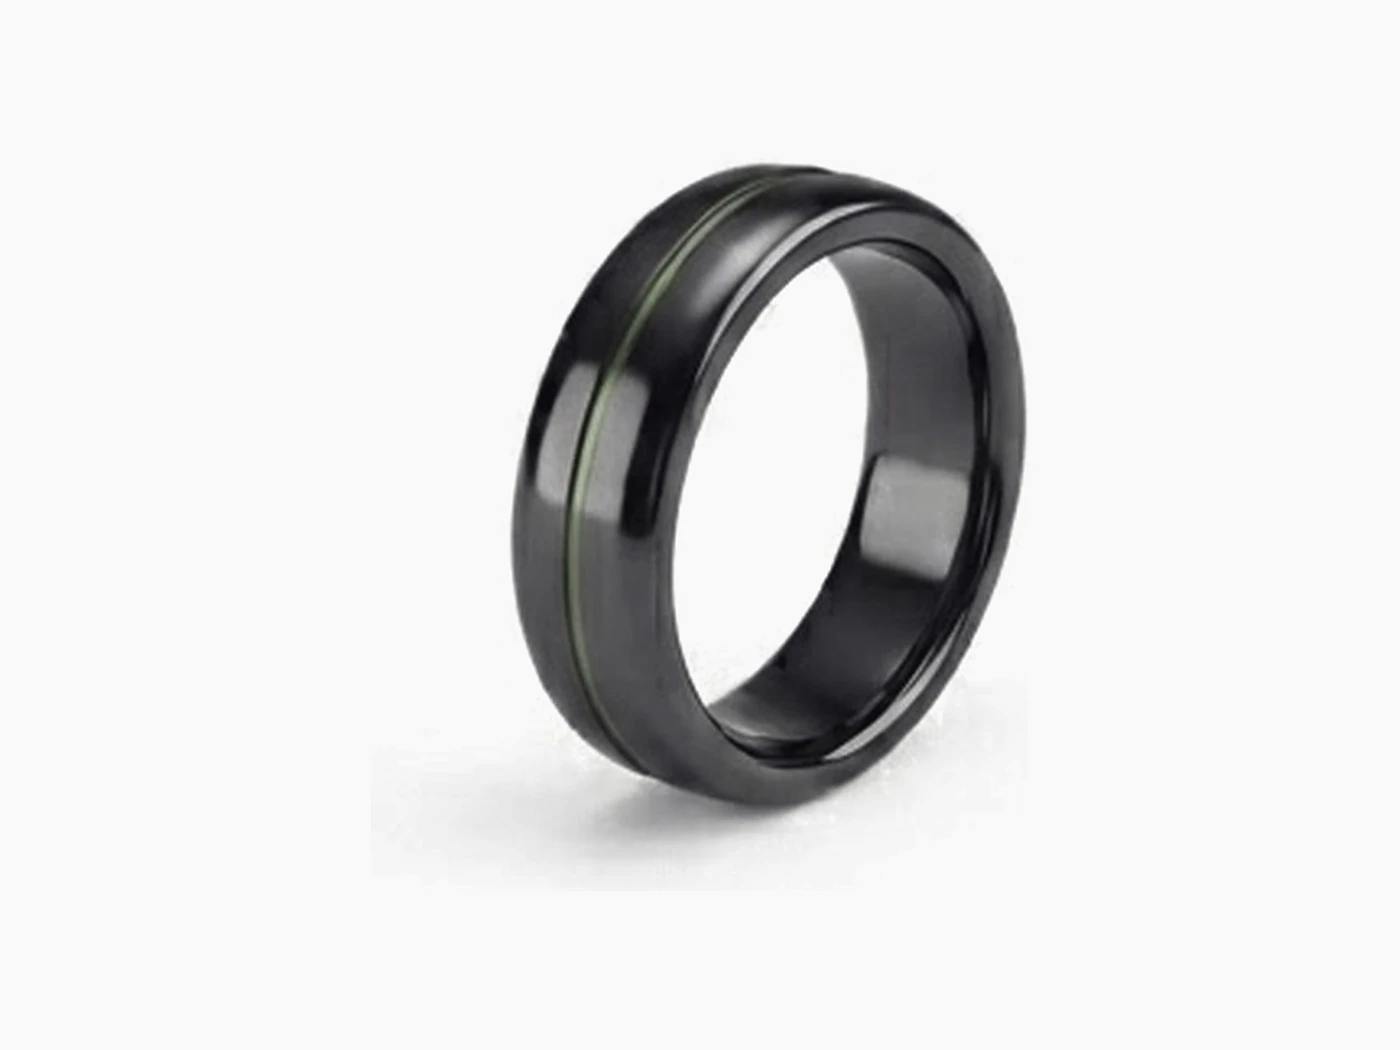
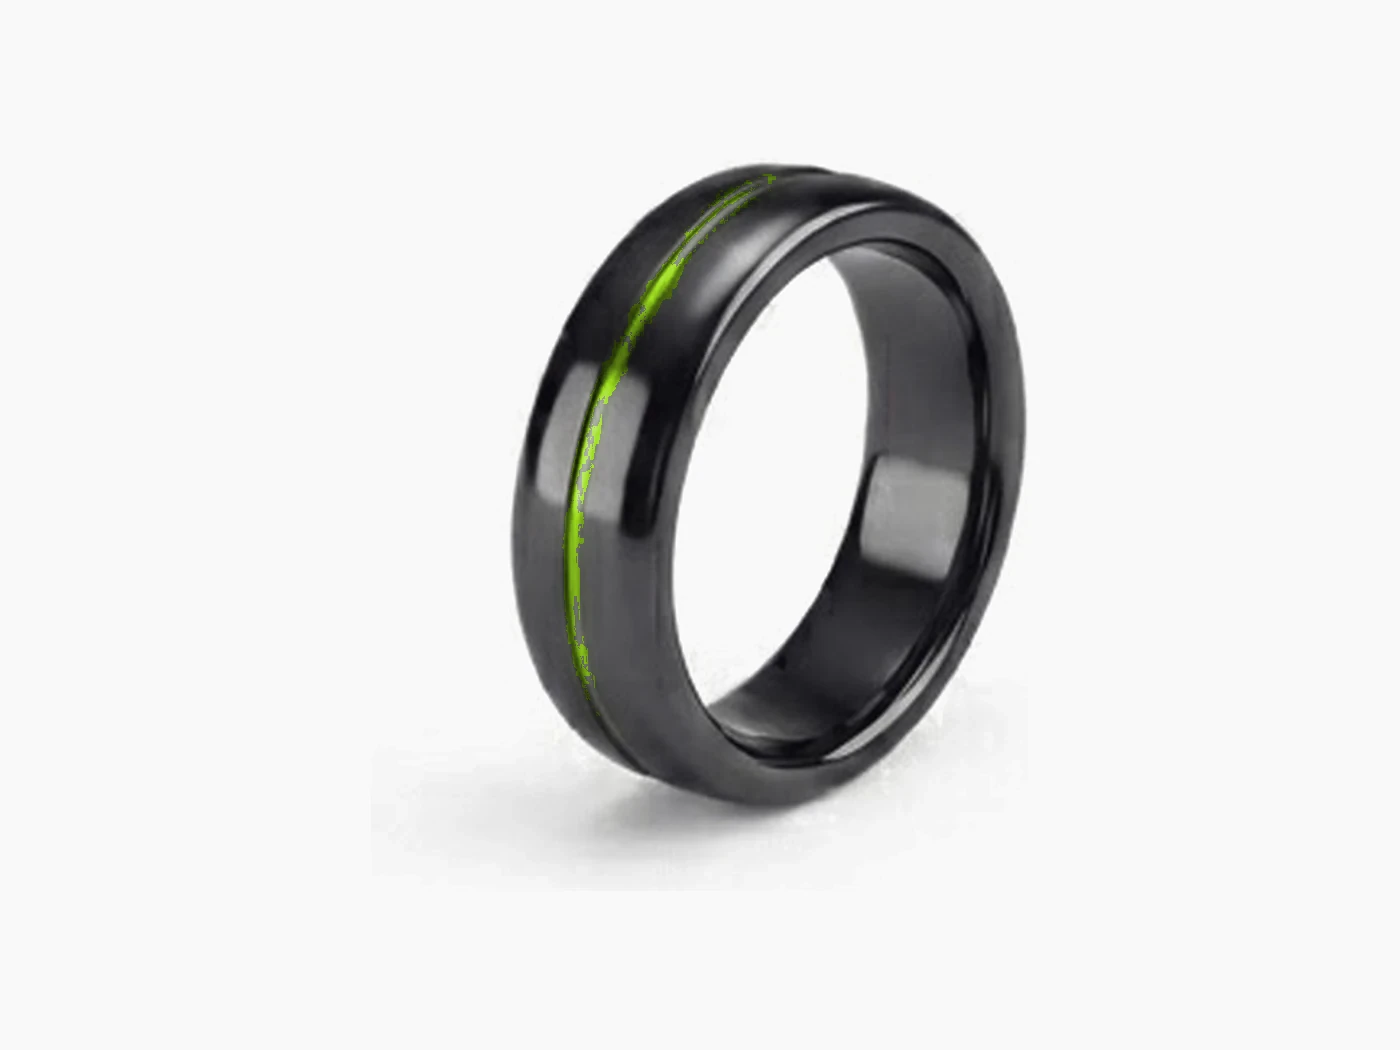
Stop sending people to a page to see what is already on screen
"Narxlar" in the header went to /pricing from everywhere, including from
the entry page, whose price block is the thing that page opens with. That
is a navigation that undoes itself: the reader presses a word, loses the
page they were reading, and arrives at the block they were three
centimetres away from.

The link now carries both an address and, where the entry page has a twin
of it, the id of that block — and picks by where the reader is standing.
Only the price has a twin; personal, business and residents are pages of
their own with nothing on the entry page to scroll to. The address is
still what goes into the HTML everywhere else, so a crawler and a
middle-click get a real URL and the scrolling is an enhancement rather
than a replacement.

An anchor now animates instead of cutting — off for anybody whose system
asks for less motion, since scrolling is the one animation that reliably
makes people ill — and every element with an id keeps 5rem clear of the
sticky header, in one rule rather than a `scroll-mt` to be remembered on
each new section.

The ring's inlay also gets its colour back. The render came back with the
line at about a third of the brand saturation and a few degrees toward
olive, so beside the card and the band — whose lines are lime — it read
as the odd product out. Only pixels the eye already sees as green are
touched, each keeping its own lightness so the groove keeps its shape; a
global lift would have tinted the whole ceramic band.
[…]

Changed region(s): [[0.3993, 0.2438, 0.4914, 0.6705], [0.4914, 0.1829, 0.5529, 0.2438]]

diff --git a/landing/src/app/globals.css b/landing/src/app/globals.css
@@ -114,8 +114,8 @@
   /* The faces come from `app/fonts.ts`. Left as shadcn wrote them, these
      pointed at variables nothing defined, so every page fell back to the
      browser's default serif. */
-  --font-sans: var(--font-inter), system-ui, -apple-system, "Segoe UI", Roboto,
-    sans-serif;
+  --font-sans:
+    var(--font-inter), system-ui, -apple-system, "Segoe UI", Roboto, sans-serif;
   /* Numbers, and only numbers: the plate, the engraving on the card, prices.
      Kept apart from the body face because 0/O and 1/I have to stay apart when
      somebody is typing a number back in off a card. */
@@ -286,6 +286,29 @@
   }
   html {
     @apply font-sans;
+
+    /* An in-page jump animates rather than teleports.
+       Landing on a block after a jump-cut, the reader has to work out what
+       moved and how far; watching it arrive answers that for free. Honoured
+       by the browser only for anchors, so a page load still starts at the top.
+       Turned off for anybody who has asked their system for less motion —
+       scrolling is the one animation that reliably makes people ill. */
+    scroll-behavior: smooth;
+  }
+
+  @media (prefers-reduced-motion: reduce) {
+    html {
+      scroll-behavior: auto;
+    }
+  }
+
+  /* The header is sticky, so a block scrolled to by anchor would otherwise
+     arrive with its heading underneath it. One rule here rather than a
+     `scroll-mt` remembered on each section, which is a rule that gets
+     forgotten on the next section somebody adds. */
+  :target,
+  [id] {
+    scroll-margin-top: 5rem;
   }
 }
 @layer components {
@@ -352,8 +375,12 @@
  * would be missing from the loop and the seam would jump by six pixels.
  */
 @keyframes drift {
-  from { transform: translateX(0); }
-  to   { transform: translateX(-50%); }
+  from {
+    transform: translateX(0);
+  }
+  to {
+    transform: translateX(-50%);
+  }
 }
 
 .drift {
@@ -369,5 +396,7 @@
 }
 
 @media (prefers-reduced-motion: reduce) {
-  .drift { animation: none; }
+  .drift {
+    animation: none;
+  }
 }

diff --git a/landing/src/components/NavLink.tsx b/landing/src/components/NavLink.tsx
@@ -1,0 +1,50 @@
+"use client";
+
+import { usePathname } from "@/i18n/navigation";
+import { Link } from "@/i18n/navigation";
+
+/**
+ * A header link that knows whether the thing it names is already on screen.
+ *
+ * Some of these name a page and some name a section of the entry page, and
+ * which one is true depends on where the reader is standing. Pressing "Narxlar"
+ * on the entry page and being sent to a page whose first screen is the block
+ * you were already looking at is a navigation that undoes itself; pressing it
+ * from a device page has to go somewhere, because there is no price block there
+ * to scroll to.
+ *
+ * So the link carries both, and picks. `anchor` is used only when the reader is
+ * on the page that has it. The `href` is what is rendered into the HTML for
+ * every other case, which is also what a crawler and a middle-click get — the
+ * scrolling is an enhancement on top of a real address, never a replacement
+ * for one.
+ */
+export default function NavLink({
+  href,
+  anchor,
+  className,
+  onNavigate,
+  children,
+}: {
+  href: string;
+  /** The id of the block on the entry page, when the link has a twin there. */
+  anchor?: string;
+  className?: string;
+  /** Lets the mobile sheet close itself when a link inside it is used. */
+  onNavigate?: () => void;
+  children: React.ReactNode;
+}) {
+  const pathname = usePathname();
+  const onEntryPage = pathname === "/";
+  const scrolls = Boolean(anchor) && onEntryPage;
+
+  return (
+    <Link
+      href={scrolls ? { pathname: "/", hash: anchor } : href}
+      className={className}
+      onClick={() => onNavigate?.()}
+    >
+      {children}
+    </Link>
+  );
+}

diff --git a/landing/src/components/SiteHeader.tsx b/landing/src/components/SiteHeader.tsx
@@ -3,6 +3,7 @@ import { getTranslations } from "next-intl/server";
 import LangSwitch from "@/components/LangSwitch";
 import Mark from "@/components/Mark";
 import MobileMenu from "@/components/MobileMenu";
+import NavLink from "@/components/NavLink";
 import { Link } from "@/i18n/navigation";
 
 // The one header, on every page.
@@ -26,8 +27,11 @@ export type Session = {
 export default async function SiteHeader({ session }: { session?: Session }) {
   const t = await getTranslations("nav");
 
+  // `anchor` names the block on the entry page, where one exists. Only the
+  // price has a twin: personal, business and residents are pages of their own
+  // and there is nothing on the entry page to scroll to.
   const items = [
-    { href: "/pricing", label: t("pricing") },
+    { href: "/pricing", anchor: "narx", label: t("pricing") },
     { href: "/personal", label: t("personal") },
     { href: "/business", label: t("business") },
     { href: "/residents", label: t("residents") },
@@ -62,13 +66,14 @@ export default async function SiteHeader({ session }: { session?: Session }) {
 
         <nav className="hidden gap-8 text-sm font-medium text-paper-2 lg:flex">
           {items.map((item) => (
-            <Link
+            <NavLink
               key={item.href}
               href={item.href}
+              anchor={item.anchor}
               className="transition-colors hover:text-white"
             >
               {item.label}
-            </Link>
+            </NavLink>
           ))}
         </nav>
 
